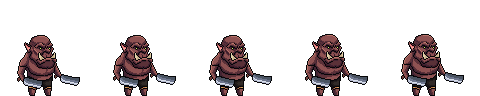
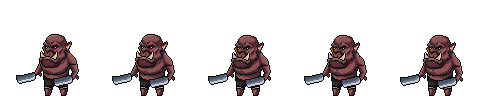
Adicionado animação de ataque. Ainda em testes.

diff --git a/core/src/com/mygdx/dungeonsagents/DungeonsAgents.java b/core/src/com/mygdx/dungeonsagents/DungeonsAgents.java
@@ -35,7 +35,8 @@ public class DungeonsAgents extends ApplicationAdapter {
 //  Music and sound effects
 	private Music battlemusic;
 	private float masterVolume;
-	private Entity hero3;
+	private Entity hero1, hero2, hero3;
+	private Entity enemy1, enemy2, enemy3;
 
 	public void volumeControl(boolean volumeKnob){
 		if(volumeKnob) {
@@ -80,41 +81,28 @@ public class DungeonsAgents extends ApplicationAdapter {
 
 		// textures
 		background = new Texture(Gdx.files.internal("background.png"));
-//		Texture tex_hero_one = new Texture(Gdx.files.internal("Heroes/Archer/Idle.png"));
 
 		// sprites
 //		sprite_hero_one = new Sprite(tex_hero_one, 0, 0, 128, 128);
 //		sprite_hero_one.setPosition(10, 10);
 
 		// animations
-		archerAnimation = loadAnimationSpriteSheet("Heroes/Archer/Idle.png", 6, 1, 0.25f);
-		swordsmanAnimation = loadAnimationSpriteSheet("Heroes/Swordsman/Idle.png", 8, 1, 0.25f);
 		stateTime = 0f;
 
-		// rectangles
-		archer = new Rectangle();
-		archer.x = (int) camera.viewportWidth / 4;
-		archer.y = (int) camera.viewportHeight / 4;
-		archer.width = 128;
-		archer.height = 128;
-		archerState = 0;
-
-		swordsman = new Rectangle();
-		swordsman.x = (int) camera.viewportWidth / 4;
-		swordsman.y = (int) ((camera.viewportHeight / 4) * 1.8);
-		swordsman.width = 128;
-		swordsman.height = 128;
-		swordsmanState = 0;
-
 		// entities
+		hero1 = new Entity(true, 0, 0, camera.viewportWidth, camera.viewportHeight);
+		hero2 = new Entity(true, 1, 1, camera.viewportWidth, camera.viewportHeight);
 		hero3 = new Entity(true, 2, 2, camera.viewportWidth, camera.viewportHeight);
+		enemy1 = new Entity(false, 0, 0, camera.viewportWidth, camera.viewportHeight);
+		enemy2 = new Entity(false, 1, 1, camera.viewportWidth, camera.viewportHeight);
+		enemy3 = new Entity(false, 2, 2, camera.viewportWidth, camera.viewportHeight);
 
 		// load the drop sound effect and the rain background "music"
 //		dropSound = Gdx.audio.newSound(Gdx.files.internal("drop.wav"));
 		battlemusic = Gdx.audio.newMusic(Gdx.files.internal("battlemusic-yeah-18130.mp3"));
 
 		// start the playback of the background music immediately
-		masterVolume = 0.1f;
+		masterVolume = 0.05f;
 		battlemusic.setLooping(true);
 		battlemusic.play();
 		battlemusic.setVolume(masterVolume);
@@ -128,41 +116,30 @@ public class DungeonsAgents extends ApplicationAdapter {
 		// Update current camera and time deltas
 		camera.update();
 		stateTime += Gdx.graphics.getDeltaTime(); // Accumulate elapsed animation time
-		hero3.currentFrame = hero3.currentAnimation.getKeyFrame(stateTime, true);
 
 		// Animations: Get current frame of animation for the current stateTime
-		switch (archerState){
-			case 0:
-				archerCurrentFrame = archerAnimation.getKeyFrame(stateTime, true);
-				break;
+		if (hero1.isLooping()){
+			hero1.currentFrame = hero1.currentAnimation.getKeyFrame(stateTime, hero1.isLooping());
 		}
-		switch (swordsmanState){
-			case 0:
-				swordsmanCurrentFrame = swordsmanAnimation.getKeyFrame(stateTime, true);
-				break;
+		else {
+			hero1.currentFrame = hero1.currentAnimation.getKeyFrame(stateTime);
 		}
+		hero2.currentFrame = hero2.currentAnimation.getKeyFrame(stateTime, hero2.isLooping());
+		hero3.currentFrame = hero3.currentAnimation.getKeyFrame(stateTime, hero3.isLooping());
+		enemy1.currentFrame = enemy1.currentAnimation.getKeyFrame(stateTime, enemy1.isLooping());
+		enemy2.currentFrame = enemy2.currentAnimation.getKeyFrame(stateTime, enemy2.isLooping());
+		enemy3.currentFrame = enemy3.currentAnimation.getKeyFrame(stateTime, enemy3.isLooping());
 
 		// Start rendering
 		batch.setProjectionMatrix(camera.combined);
 		batch.begin();
 		batch.draw(background, 0, 0);
+		batch.draw(hero1.currentFrame, hero1.getPosition().x, hero1.getPosition().y);
+		batch.draw(hero2.currentFrame, hero2.getPosition().x, hero2.getPosition().y);
 		batch.draw(hero3.currentFrame, hero3.getPosition().x, hero3.getPosition().y);
-		switch (archerState){
-			case 0:
-				batch.draw(archerCurrentFrame, archer.x, archer.y);
-				break;
-			case 1:
-				batch.draw(archerCurrentFrame, archer.x, archer.y);
-				break;
-		}
-		switch (swordsmanState){
-			case 0:
-				batch.draw(swordsmanCurrentFrame, swordsman.x, swordsman.y);
-				break;
-			case 1:
-				batch.draw(swordsmanCurrentFrame, swordsman.x, swordsman.y);
-				break;
-		}
+		batch.draw(enemy1.currentFrame, enemy1.getPosition().x, enemy1.getPosition().y);
+		batch.draw(enemy2.currentFrame, enemy2.getPosition().x, enemy2.getPosition().y);
+		batch.draw(enemy3.currentFrame, enemy3.getPosition().x, enemy3.getPosition().y);
 //		sprite_hero_one.draw(batch);
 
 		// End rendering
@@ -171,6 +148,11 @@ public class DungeonsAgents extends ApplicationAdapter {
 		// Game logic
 		if(Gdx.input.isKeyPressed(Input.Keys.MINUS)) volumeControl(false);
 		if(Gdx.input.isKeyPressed(Input.Keys.PLUS) || Gdx.input.isKeyPressed(Input.Keys.EQUALS)) volumeControl(true);
+		if(Gdx.input.isKeyPressed(Input.Keys.NUM_1)) hero1.setAnimationState(2);
+
+		if(hero1.currentAnimation.isAnimationFinished(stateTime) && hero1.getAnimationState() != 0){  //condition false
+			hero1.setAnimationState(0);
+		}
 
 	}
 	

diff --git a/core/src/com/mygdx/dungeonsagents/Entity.java b/core/src/com/mygdx/dungeonsagents/Entity.java
@@ -18,6 +18,7 @@ public class Entity {
     private final int fightingClass;
     private Rectangle position;
     private int animationState;
+    private boolean looping;
     public Animation<TextureRegion> currentAnimation;
     public TextureRegion currentFrame;
 
@@ -26,8 +27,15 @@ public class Entity {
         this.placement = placement;
         this.fightingClass = fightingClass;
         this.animationState = 0;
+        this.looping = true;
         this.createPosition(viewportWidth, viewportHeight);
         this.loadAnimations();
+    }
+
+    public void setAnimationState(int animationState) {
+        this.animationState = animationState;
+        this.loadAnimations();
+//        this.looping = animationState == 0;
     }
 
     private String getFightingClassName(){
@@ -104,6 +112,9 @@ public class Entity {
                         case 0: //Idle
                             listColsRows.add(6);
                             listColsRows.add(1);
+                        case 2: //Attack_1
+                            listColsRows.add(4);
+                            listColsRows.add(1);
                         default:
                             listColsRows.add(6);
                             listColsRows.add(1);
@@ -172,23 +183,6 @@ public class Entity {
         List<Integer> frameColsRows= this.getFrameColsRows();
         int frame_cols = frameColsRows.get(0);
         int frame_rows = frameColsRows.get(1);
-//        switch (this.fightingClass){
-//            case 0:
-////                internal_file_name = "Heroes/Archer/Idle.png";
-//                frame_cols = 6;
-//                frame_rows = 1;
-//                break;
-//            case 1:
-////                internal_file_name = "Heroes/Swordsman/Idle.png";
-//                frame_cols = 8;
-//                frame_rows = 1;
-//                break;
-//            default:
-////                internal_file_name = "Heroes/Archer/Idle.png";
-//                frame_cols = 6;
-//                frame_rows = 1;
-//                break;
-//        }
 
         // Load the sprite sheet as a Texture
         Texture walkSheet = new Texture(Gdx.files.internal(internal_file_name));
@@ -213,51 +207,6 @@ public class Entity {
         // Initialize the Animation with the frame interval and array of frames
         currentAnimation = new Animation<TextureRegion>(0.25f, walkFrames);
     }
-
-//    private void loadAnimations(){
-//        String internal_file_name;
-//        int frame_cols, frame_rows;
-//        switch (this.fightingClass){
-//            case 0:
-//                internal_file_name = "Heroes/Archer/Idle.png";
-//                frame_cols = 6;
-//                frame_rows = 1;
-//                break;
-//            case 1:
-//                internal_file_name = "Heroes/Swordsman/Idle.png";
-//                frame_cols = 8;
-//                frame_rows = 1;
-//                break;
-//            default:
-//                internal_file_name = "Heroes/Archer/Idle.png";
-//                frame_cols = 6;
-//                frame_rows = 1;
-//                break;
-//        }
-//
-//        // Load the sprite sheet as a Texture
-//        Texture walkSheet = new Texture(Gdx.files.internal(internal_file_name));
-//
-//        // Use the split utility method to create a 2D array of TextureRegions. This is
-//        // possible because this sprite sheet contains frames of equal size and they are
-//        // all aligned.
-//        TextureRegion[][] tmp = TextureRegion.split(walkSheet,
-//                walkSheet.getWidth() / frame_cols,
-//                walkSheet.getHeight() / frame_rows);
-//
-//        // Place the regions into a 1D array in the correct order, starting from the top
-//        // left, going across first. The Animation constructor requires a 1D array.
-//        TextureRegion[] walkFrames = new TextureRegion[frame_cols * frame_rows];
-//        int index = 0;
-//        for (int i = 0; i < frame_rows; i++) {
-//            for (int j = 0; j < frame_cols; j++) {
-//                walkFrames[index++] = tmp[i][j];
-//            }
-//        }
-//
-//        // Initialize the Animation with the frame interval and array of frames
-//        currentAnimation = new Animation<TextureRegion>(0.25f, walkFrames);
-//    }
 
     private void createPosition(float viewportWidth, float viewportHeight){
         this.position = new Rectangle();
@@ -310,19 +259,15 @@ public class Entity {
         return healthPoints;
     }
 
-    public boolean isAlly() {
-        return ally;
-    }
-
-    public int getPlacement() {
-        return placement;
-    }
-
-    public int getFightingClass() {
-        return fightingClass;
-    }
-
     public Rectangle getPosition() {
         return position;
+    }
+
+    public boolean isLooping() {
+        return looping;
+    }
+
+    public int getAnimationState() {
+        return animationState;
     }
 }
